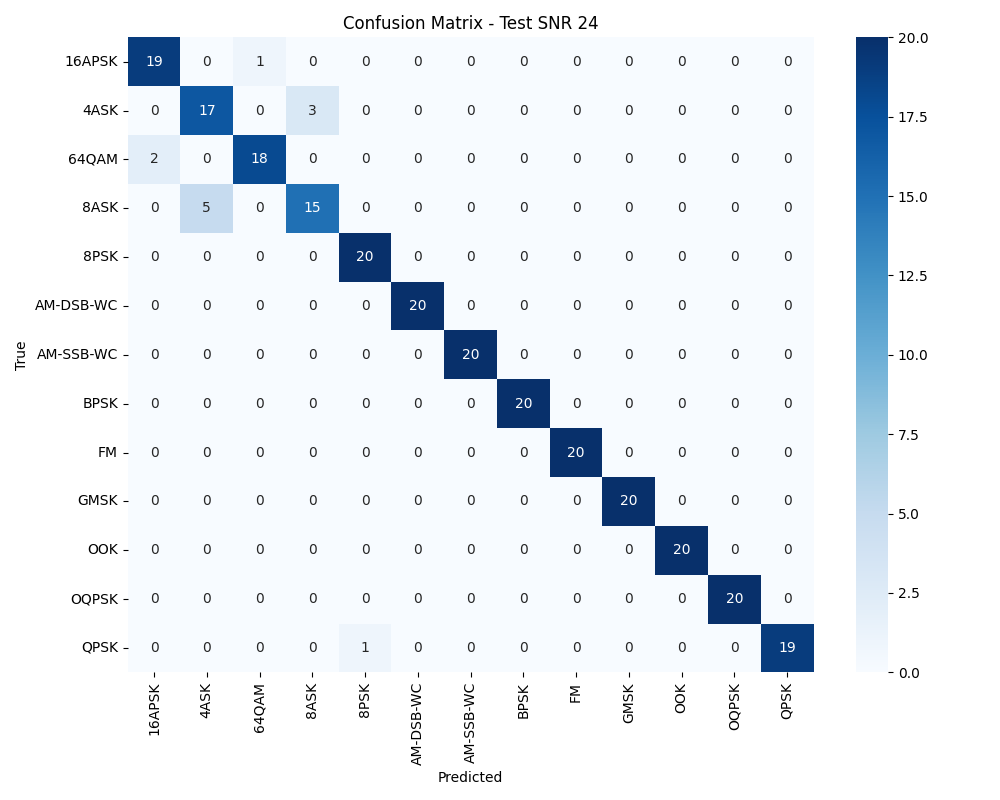
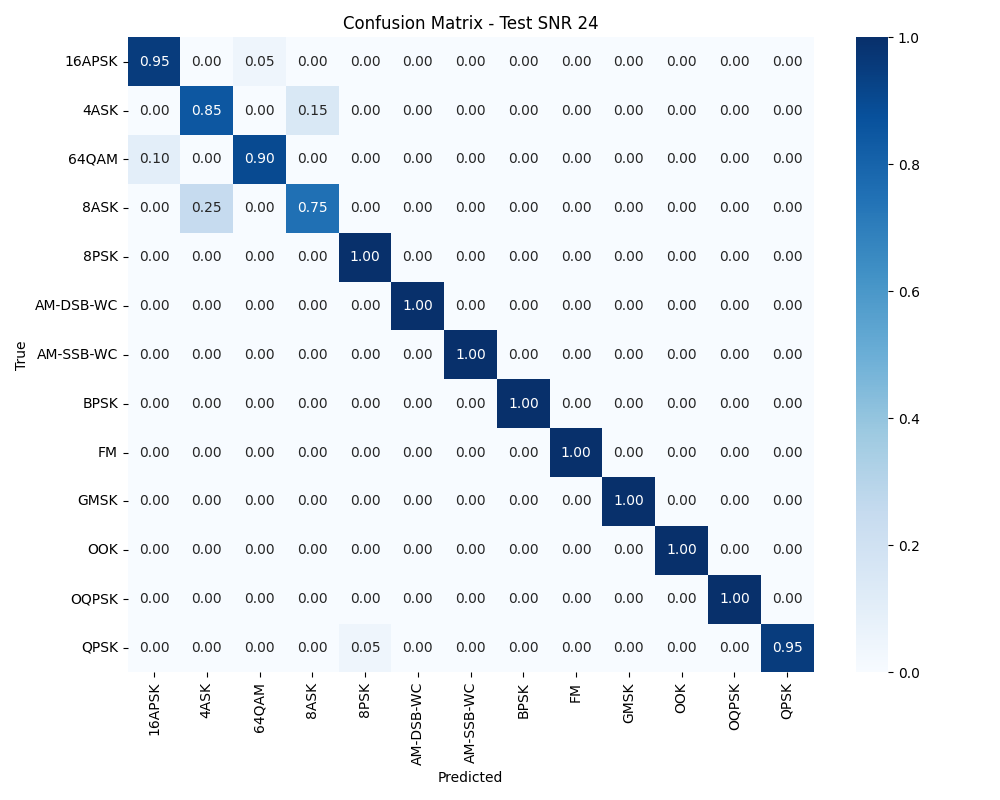
update new conf matrices

diff --git a/ModelScripts/DualStreamMultiSnr.py b/ModelScripts/DualStreamMultiSnr.py
@@ -512,10 +512,10 @@ if __name__ == "__main__":
     print("\nClassification Report:")
     print(classification_report(all_labels, all_preds, target_names=test_dataset.classes, digits=4))
     
-    # Confusion matrix
-    cm = confusion_matrix(all_labels, all_preds)
+    # Confusion matrix (normalized)
+    cm = confusion_matrix(all_labels, all_preds, normalize='true')
     plt.figure(figsize=(10, 8))
-    sns.heatmap(cm, annot=True, fmt='d', cmap='Blues',
+    sns.heatmap(cm, annot=True, fmt='.2f', cmap='Blues',
                 xticklabels=test_dataset.classes, yticklabels=test_dataset.classes)
     plt.title(f'Confusion Matrix - Test SNR {TEST_SNR}')
     plt.xlabel('Predicted')
